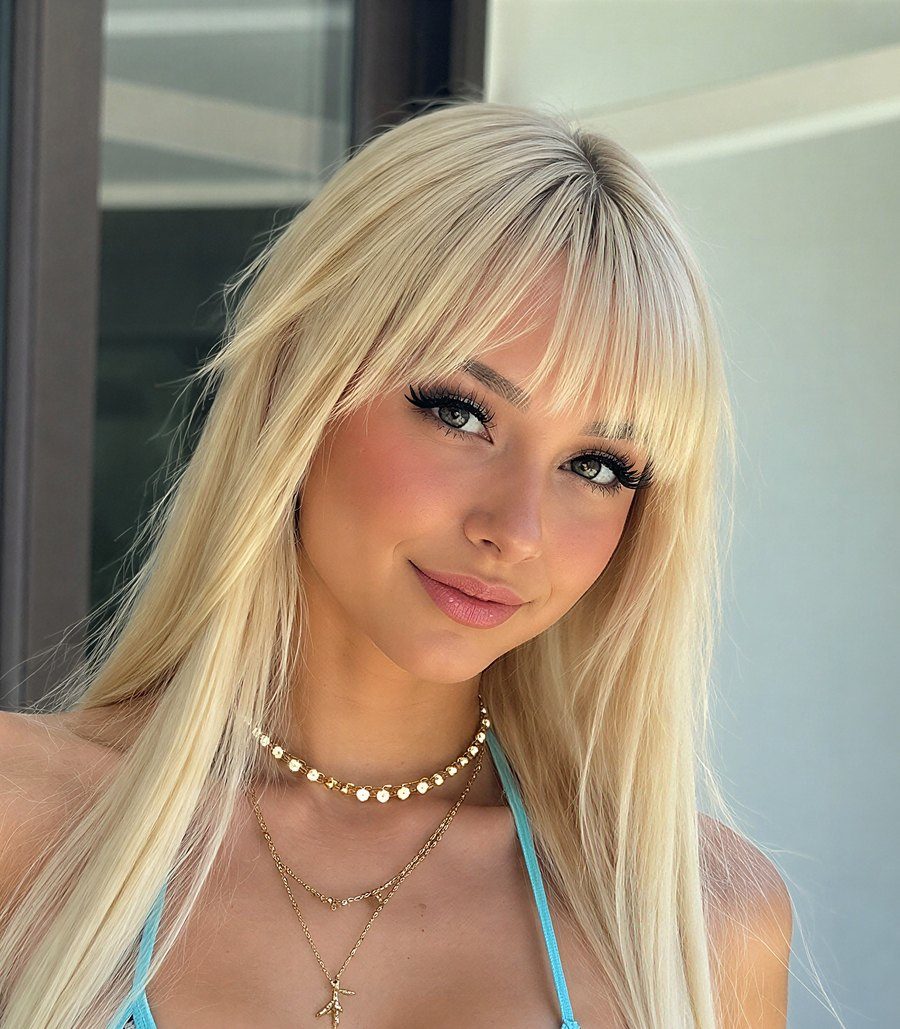
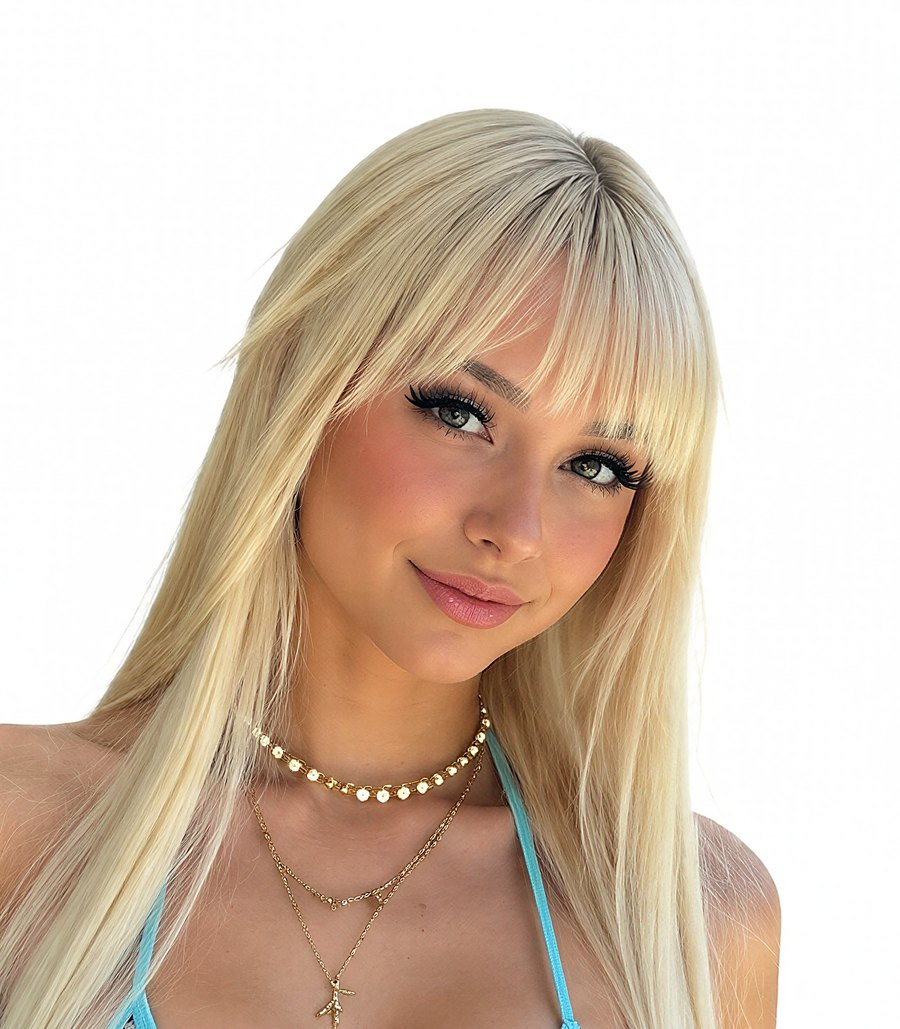
AI Influencer: Blonde Bree on white studio background
Claude-Session: https://claude.ai/code/session_01Pn4hNDRWRVhm438Rr9UBh8

diff --git a/js/influencer-presets.js b/js/influencer-presets.js
@@ -71,7 +71,7 @@ window.AIRH_INF_PRESETS = [
       x: "Signature: very long wavy dark brown hair past her waist, three black cat-whisker stripes face-painted on each cheek, a goofy silly face with her eyes playfully crossed looking at the tip of her nose and her tongue stuck out jokingly. Outfit: cropped white and grey striped long-sleeve top, oversized cropped black denim jacket, high-waisted black cargo pants, chunky black platform sneakers, small silver hoops" },
     { id: "y2k-star", name: "Y2K Pop Star", tier: "normal", view: "card", t: { gender: ["female"], build: ["curvy"], hair: ["pigtails"], haircolor: ["pink"], style: ["y2k"], ethnicity: ["asian"], age: ["adult"], skin: ["light"], features: ["freckles", "blush"], distinctive: ["gems"], accessories: ["glasses"] } },
     { id: "blonde-bree", name: "Blonde Bree", tier: "normal", view: "card", t: { gender: ["female"], age: ["adult"], ethnicity: ["european"], skin: ["tan"], build: ["curvy"], hair: ["long"], haircolor: ["platinum"], eyecolor: ["hazel"], features: ["blush"], distinctive: ["lashes"], accessories: ["jewelry"] },
-      x: "Signature: very long straight platinum blonde hair with darker roots and full wispy curtain bangs, dramatic long false lashes, rosy flushed cheeks, glossy pink lips, a sweet shy closed-mouth smile with her head tilted slightly, hands clasped behind her back. Outfit: white and black leopard print string bikini with bright aqua blue trim and side-tie bottoms, a gold beaded choker, two layered dainty gold chain necklaces with a small gold cross pendant. Setting: sunny modern white patio beside dark-framed sliding glass doors and a planter of agave plants" },
+      x: "Signature: very long straight platinum blonde hair with darker roots and full wispy curtain bangs, dramatic long false lashes, rosy flushed cheeks, glossy pink lips, a sweet shy closed-mouth smile with her head tilted slightly, hands clasped behind her back. Outfit: white and black leopard print string bikini with bright aqua blue trim and side-tie bottoms, a gold beaded choker, two layered dainty gold chain necklaces with a small gold cross pendant." },
     { id: "selfie-sienna", name: "Selfie Sienna", tier: "normal", view: "card", t: { gender: ["female"], age: ["adult"], ethnicity: ["mixed"], skin: ["tan"], build: ["athletic"], hair: ["long"], haircolor: ["darkbrown"], style: ["y2k"], accessories: ["jewelry"] },
       x: "Signature: very long straight sleek brunette hair with a center part falling past her waist, soft natural makeup, a calm cool expression, a dainty gold chain necklace, holding a smartphone with a bright orange case up like a mirror selfie. Outfit: cropped heather grey ribbed long-sleeve baby tee, low-rise light beige cargo pants, white low-top sneakers, small gold hoop earrings, a small fine-line tattoo on her forearm" },
     { id: "goth-queen", name: "Goth Queen", tier: "normal", view: "card", t: { gender: ["female"], build: ["slim"], hair: ["long"], haircolor: ["black"], style: ["goth"], ethnicity: ["european"], age: ["adult"], skin: ["porcelain"], eyecolor: ["iceblue"], distinctive: ["piercing", "lashes"], accessories: ["jewelry"] } },
